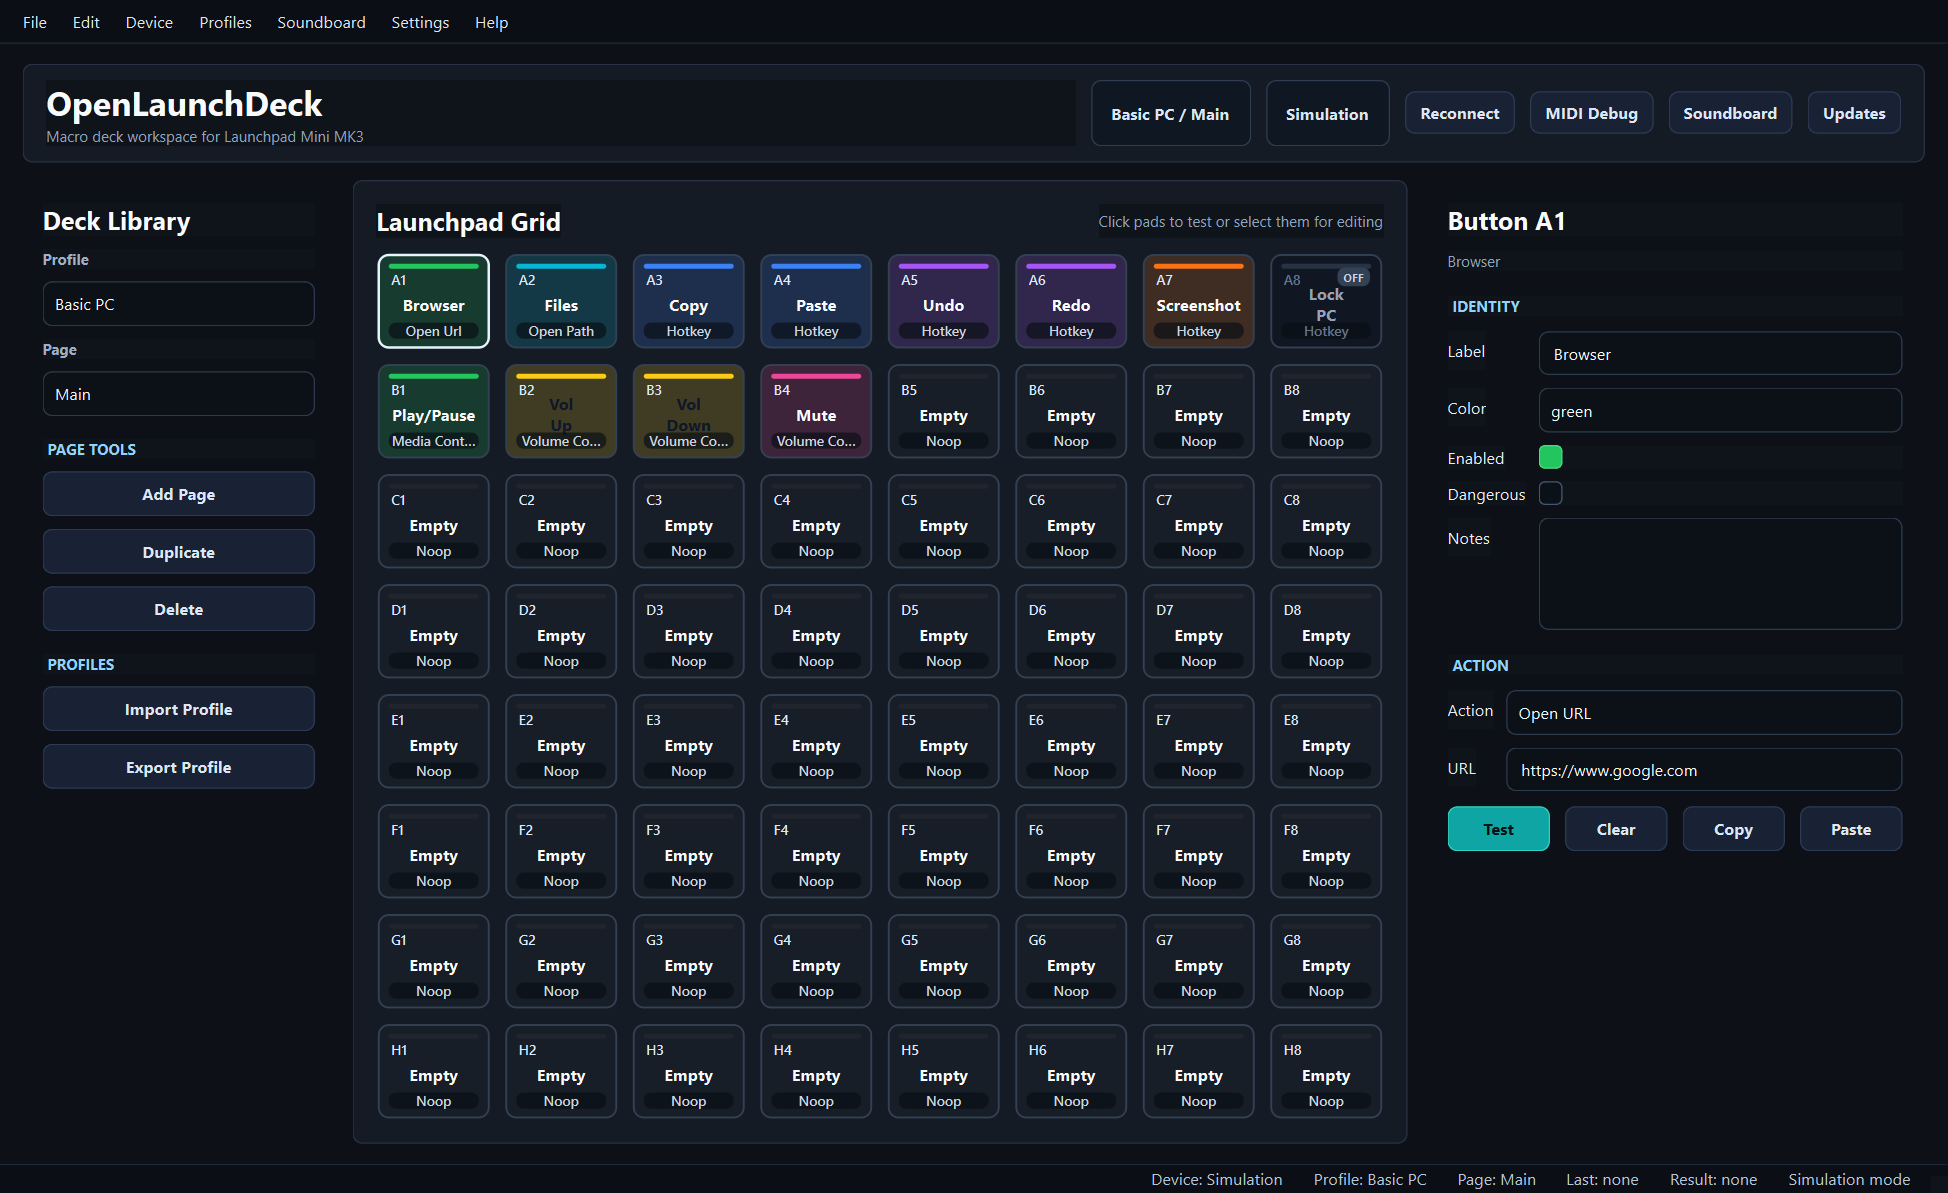
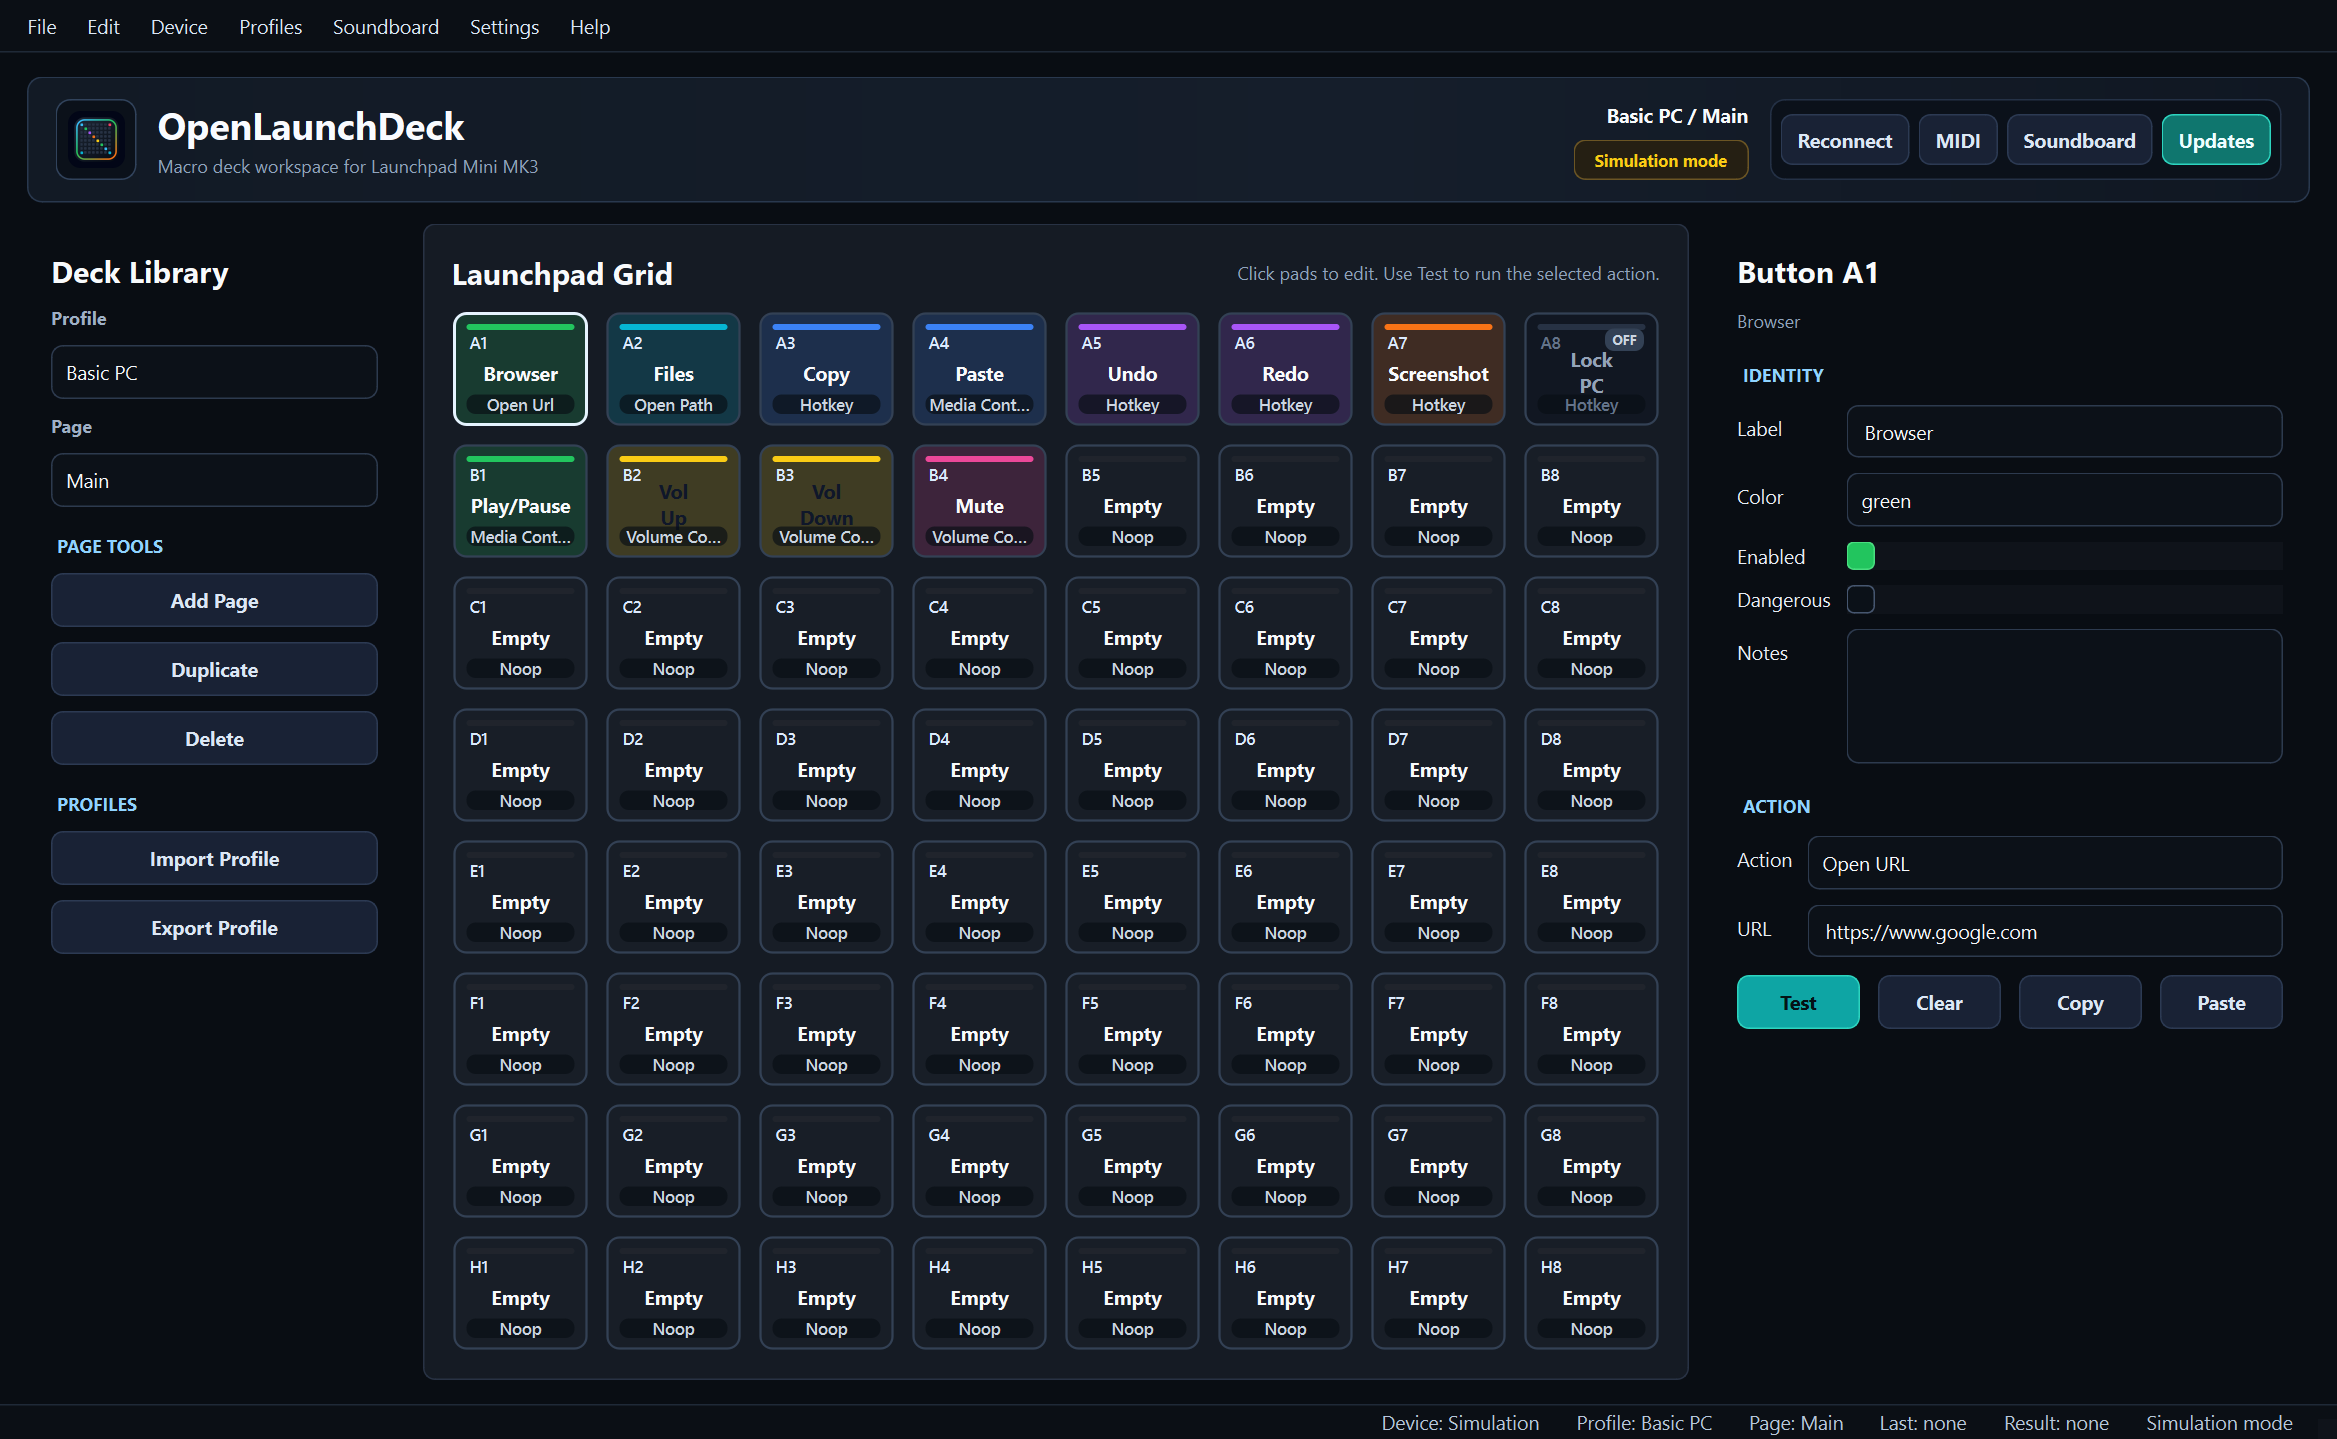
Make grid clicks edit only

diff --git a/openlaunchdeck/ui/main_window.py b/openlaunchdeck/ui/main_window.py
@@ -85,7 +85,7 @@ class MainWindow(QMainWindow):
         self._startup_update_worker: UpdateCheckWorker | None = None
         self.setWindowTitle(f"{APP_NAME} {__version__}")
         self.setWindowIcon(app_icon())
-        self.resize(1440, 900)
+        self.resize(1480, 920)
         self.setStyleSheet(load_theme(self.services.settings_service.settings.theme))
 
         self.services.action_runner.completion_callback = lambda button_id, result: self.action_finished.emit(button_id, result)
@@ -123,10 +123,16 @@ class MainWindow(QMainWindow):
         header = QFrame()
         header.setObjectName("AppHeader")
         header_layout = QHBoxLayout(header)
-        header_layout.setContentsMargins(18, 12, 18, 12)
-        header_layout.setSpacing(12)
+        header_layout.setContentsMargins(18, 14, 18, 14)
+        header_layout.setSpacing(14)
+
+        icon = QLabel()
+        icon.setObjectName("HeaderIcon")
+        icon.setPixmap(app_icon().pixmap(38, 38))
+        header_layout.addWidget(icon)
 
         brand = QWidget()
+        brand.setObjectName("HeaderBrand")
         brand_layout = QVBoxLayout(brand)
         brand_layout.setContentsMargins(0, 0, 0, 0)
         brand_layout.setSpacing(1)
@@ -138,15 +144,26 @@ class MainWindow(QMainWindow):
         brand_layout.addWidget(subtitle)
         header_layout.addWidget(brand, 1)
 
+        header_meta = QWidget()
+        header_meta.setObjectName("HeaderMeta")
+        header_meta_layout = QVBoxLayout(header_meta)
+        header_meta_layout.setContentsMargins(0, 0, 0, 0)
+        header_meta_layout.setSpacing(6)
         self.header_profile = QLabel("")
-        self.header_profile.setObjectName("HeaderChip")
+        self.header_profile.setObjectName("HeaderActiveDeck")
         self.header_mode = QLabel("Simulation")
-        self.header_mode.setObjectName("HeaderChip")
-        header_layout.addWidget(self.header_profile)
-        header_layout.addWidget(self.header_mode)
+        self.header_mode.setObjectName("HeaderModeChip")
+        header_meta_layout.addWidget(self.header_profile, 0, Qt.AlignmentFlag.AlignRight)
+        header_meta_layout.addWidget(self.header_mode, 0, Qt.AlignmentFlag.AlignRight)
+        header_layout.addWidget(header_meta)
 
+        actions_frame = QFrame()
+        actions_frame.setObjectName("HeaderActions")
+        actions_layout = QHBoxLayout(actions_frame)
+        actions_layout.setContentsMargins(6, 6, 6, 6)
+        actions_layout.setSpacing(6)
         self.header_reconnect_button = QPushButton("Reconnect")
-        self.header_debug_button = QPushButton("MIDI Debug")
+        self.header_debug_button = QPushButton("MIDI")
         self.header_soundboard_button = QPushButton("Soundboard")
         self.header_update_button = QPushButton("Updates")
         for button in (
@@ -156,7 +173,9 @@ class MainWindow(QMainWindow):
             self.header_update_button,
         ):
             button.setObjectName("HeaderButton")
-            header_layout.addWidget(button)
+            actions_layout.addWidget(button)
+        self.header_update_button.setObjectName("HeaderPrimaryButton")
+        header_layout.addWidget(actions_frame)
 
         root.addWidget(header)
 
@@ -183,7 +202,7 @@ class MainWindow(QMainWindow):
         deck_header = QHBoxLayout()
         deck_title = QLabel("Launchpad Grid")
         deck_title.setObjectName("PanelTitle")
-        deck_hint = QLabel("Click pads to test or select them for editing")
+        deck_hint = QLabel("Click pads to edit. Use Test to run the selected action.")
         deck_hint.setObjectName("PanelHint")
         deck_header.addWidget(deck_title)
         deck_header.addStretch(1)
@@ -285,7 +304,7 @@ class MainWindow(QMainWindow):
             self.statusBar().addPermanentWidget(label)
 
     def _connect_signals(self) -> None:
-        self.grid.button_clicked.connect(self.handle_simulation_press)
+        self.grid.button_clicked.connect(self.select_button)
         self.editor.changed.connect(self.save_button_changes)
         self.editor.test_requested.connect(lambda: self.handle_simulation_press(self.grid.selected_button_id))
         self.editor.clear_requested.connect(self.clear_selected_button)
@@ -318,7 +337,13 @@ class MainWindow(QMainWindow):
         self.mode_status.setText("Connected mode" if self.services.device.connected else "Simulation mode")
         self.device_status.setText("Device: Connected" if self.services.device.connected else "Device: Simulation")
         self.header_profile.setText(f"{profile_service.current_profile.name} / {current_page.name}")
-        self.header_mode.setText("Connected" if self.services.device.connected else "Simulation")
+        self._set_header_mode(self.services.device.connected)
+
+    def _set_header_mode(self, connected: bool) -> None:
+        self.header_mode.setText("Connected mode" if connected else "Simulation mode")
+        self.header_mode.setProperty("state", "connected" if connected else "simulation")
+        self.header_mode.style().unpolish(self.header_mode)
+        self.header_mode.style().polish(self.header_mode)
 
     def refresh_lighting(self) -> None:
         self.services.lighting_service.refresh_page(
@@ -328,6 +353,8 @@ class MainWindow(QMainWindow):
         )
 
     def handle_simulation_press(self, button_id: str) -> None:
+        if not button_id:
+            return
         self.select_button(button_id)
         self.last_pressed_status.setText(f"Last: {button_id}")
         self.services.action_runner.handle_button_press(button_id, "simulation")
@@ -550,7 +577,7 @@ class MainWindow(QMainWindow):
         self.refresh_all()
 
     def check_updates(self) -> None:
-        UpdateDialog(self.services.settings_service, self.services.logger, self).exec()
+        UpdateDialog(self.services.settings_service, self.services.logger, self, auto_check=True).exec()
 
     def check_updates_on_startup(self) -> None:
         if self._startup_update_thread is not None:

diff --git a/tests/test_update_dialog.py b/tests/test_update_dialog.py
@@ -5,7 +5,10 @@ os.environ.setdefault("QT_QPA_PLATFORM", "offscreen")
 from PySide6.QtWidgets import QApplication
 
 from openlaunchdeck.services.update_service import UpdateService
-from openlaunchdeck.ui.update_dialog import UpdateCheckWorker
+from openlaunchdeck.app import build_services
+from openlaunchdeck.ui import main_window as main_window_module
+from openlaunchdeck.ui.main_window import MainWindow
+from openlaunchdeck.ui.update_dialog import UpdateCheckWorker, UpdateDialog
 
 
 class FailingUpdateService(UpdateService):
@@ -25,3 +28,51 @@ def test_update_worker_reports_failed_check_without_raising():
     worker.run()
 
     assert failures == ["manifest unavailable"]
+
+
+def test_header_updates_button_opens_update_dialog(monkeypatch):
+    app = QApplication.instance() or QApplication([])
+    services = build_services()
+    services.settings_service.settings.first_run_complete = True
+    services.settings_service.settings.auto_connect = False
+    opened = []
+
+    class FakeUpdateDialog:
+        def __init__(self, settings_service, logger=None, parent=None, auto_check=False):
+            opened.append((settings_service, logger, parent, auto_check))
+
+        def exec(self):
+            opened.append("exec")
+            return 0
+
+    monkeypatch.setattr(main_window_module, "UpdateDialog", FakeUpdateDialog)
+
+    window = MainWindow(services)
+    window.header_update_button.click()
+    app.processEvents()
+
+    assert opened[-1] == "exec"
+    assert opened[0][0] is services.settings_service
+    assert opened[0][2] is window
+    assert opened[0][3] is True
+
+    window._force_quit = True
+    window.close()
+    services.action_runner.shutdown()
+    services.device.close()
+
+
+def test_update_dialog_auto_check_reports_missing_manifest_url():
+    app = QApplication.instance() or QApplication([])
+    services = build_services()
+    services.settings_service.settings.update_manifest_url = ""
+
+    dialog = UpdateDialog(services.settings_service, auto_check=True)
+    app.processEvents()
+
+    assert dialog.label.text() == "No update manifest URL is configured."
+    assert "Set an update manifest URL" in dialog.output.toPlainText()
+
+    dialog.close()
+    services.action_runner.shutdown()
+    services.device.close()

diff --git a/tests/test_gui_simulation.py b/tests/test_gui_simulation.py
@@ -11,7 +11,7 @@ from openlaunchdeck.models.page import Page
 from openlaunchdeck.ui.main_window import MainWindow
 
 
-def test_gui_grid_and_simulation_use_action_runner():
+def test_grid_click_selects_without_running_action():
     app = QApplication.instance() or QApplication([])
     services = build_services()
     services.settings_service.settings.first_run_complete = True
@@ -23,12 +23,18 @@ def test_gui_grid_and_simulation_use_action_runner():
         calls.append((button_id, source))
 
     services.action_runner.handle_button_press = fake_press
-    window.grid.button_clicked.emit("A1")
+    window.grid.button_clicked.emit("B2")
+    app.processEvents()
+
+    assert calls == []
+
     window.hardware_button.emit("B2", True, None)
+    window.editor.test_requested.emit()
     app.processEvents()
 
     assert len(window.grid.cells) == 64
-    assert ("A1", "simulation") in calls
+    assert window.grid.selected_button_id == "B2"
+    assert calls.count(("B2", "simulation")) == 1
     assert ("B2", "midi") in calls
 
     window._force_quit = True
@@ -56,7 +62,7 @@ def test_switch_page_action_refreshes_grid_and_status():
     )
     window.refresh_all()
 
-    window.grid.button_clicked.emit("A1")
+    window.editor.test_requested.emit()
     app.processEvents()
 
     assert services.profile_service.current_page_id == "second"

diff --git a/openlaunchdeck/ui/update_dialog.py b/openlaunchdeck/ui/update_dialog.py
@@ -3,7 +3,7 @@ from __future__ import annotations
 import webbrowser
 from pathlib import Path
 
-from PySide6.QtCore import QObject, QThread, Signal, Slot
+from PySide6.QtCore import QObject, QThread, QTimer, Signal, Slot
 from PySide6.QtWidgets import (
     QApplication,
     QDialog,
@@ -64,7 +64,7 @@ class UpdateDownloadWorker(QObject):
 
 
 class UpdateDialog(QDialog):
-    def __init__(self, settings_service, logger=None, parent=None) -> None:
+    def __init__(self, settings_service, logger=None, parent=None, auto_check: bool = False) -> None:
         super().__init__(parent)
         self.settings_service = settings_service
         self.logger = logger
@@ -110,6 +110,8 @@ class UpdateDialog(QDialog):
         self.install_button.clicked.connect(self.install_update)
         self.close_button.clicked.connect(self.reject)
         self._update_buttons()
+        if auto_check:
+            QTimer.singleShot(0, self.check)
 
     def check(self) -> None:
         manifest_url = self.settings_service.settings.update_manifest_url.strip()

diff --git a/openlaunchdeck/version.py b/openlaunchdeck/version.py
@@ -1,2 +1,2 @@
 APP_NAME = "OpenLaunchDeck"
-__version__ = "0.1.6"
+__version__ = "0.1.7"

diff --git a/README.md b/README.md
@@ -28,7 +28,7 @@ More screenshots are tracked in [docs/screenshots](docs/screenshots).
 - Editable 8x8 Launchpad-style grid
 - Modern dark/light desktop UI with configurable grid density
 - Multiple profiles and pages
-- Simulation clicks for setup without hardware
+- Simulation testing without hardware through the button editor
 - MIDI input/output structure for Launchpad Mini MK3
 - Isolated A1-H8 MIDI mapping with calibration
 - Page lighting refresh with changed-pad batching
@@ -121,15 +121,15 @@ When Inno Setup is available, the script builds `dist\installer\OpenLaunchDeckSe
 Every tagged release should publish ready-to-download Windows packages. Push a `v<version>` tag after the version bump is committed:
 
 ```powershell
-git tag v0.1.6
-git push origin v0.1.6
+git tag v0.1.7
+git push origin v0.1.7
 ```
 
 The Release workflow builds and uploads the installer EXE, portable ZIP, and SHA256 checksum files to GitHub Releases. It uses the same build script with CI-specific fast packaging flags so tagged releases spend less time on packaging.
 
 ## First Setup
 
-On first launch, choose a starter profile or start with a blank deck. If no Launchpad is connected, OpenLaunchDeck stays in simulation mode and lets you edit profiles and test actions by clicking grid cells.
+On first launch, choose a starter profile or start with a blank deck. If no Launchpad is connected, OpenLaunchDeck stays in simulation mode. Click grid pads to edit them, then use the selected button's Test control when you want to run an action from the app.
 
 When the Launchpad is connected:
 

diff --git a/CHANGELOG.md b/CHANGELOG.md
@@ -1,5 +1,12 @@
 # Changelog
 
+## 0.1.7
+
+- Made app grid clicks select pads for editing without running their actions.
+- Kept action execution behind the selected button's Test control or real MIDI pad presses.
+- Made the update dialog auto-check when opened from the app.
+- Polished the header bar, mode indicator, update button, and dark theme label styling.
+
 ## 0.1.6
 
 - Shortened the tagged release build path used by GitHub Actions.

diff --git a/docs/release_checklist.md b/docs/release_checklist.md
@@ -12,7 +12,8 @@
 - Run `pytest`.
 - Launch the app from source with `python -m openlaunchdeck.main`.
 - Verify simulation mode without hardware.
-- Verify simulation button presses reach the action runner.
+- Verify grid clicks select buttons for editing without running actions.
+- Verify the selected button's Test control reaches the action runner.
 - Verify profile save/load.
 - Verify starter profiles load.
 - Verify update manifest parsing and checksum failure handling.